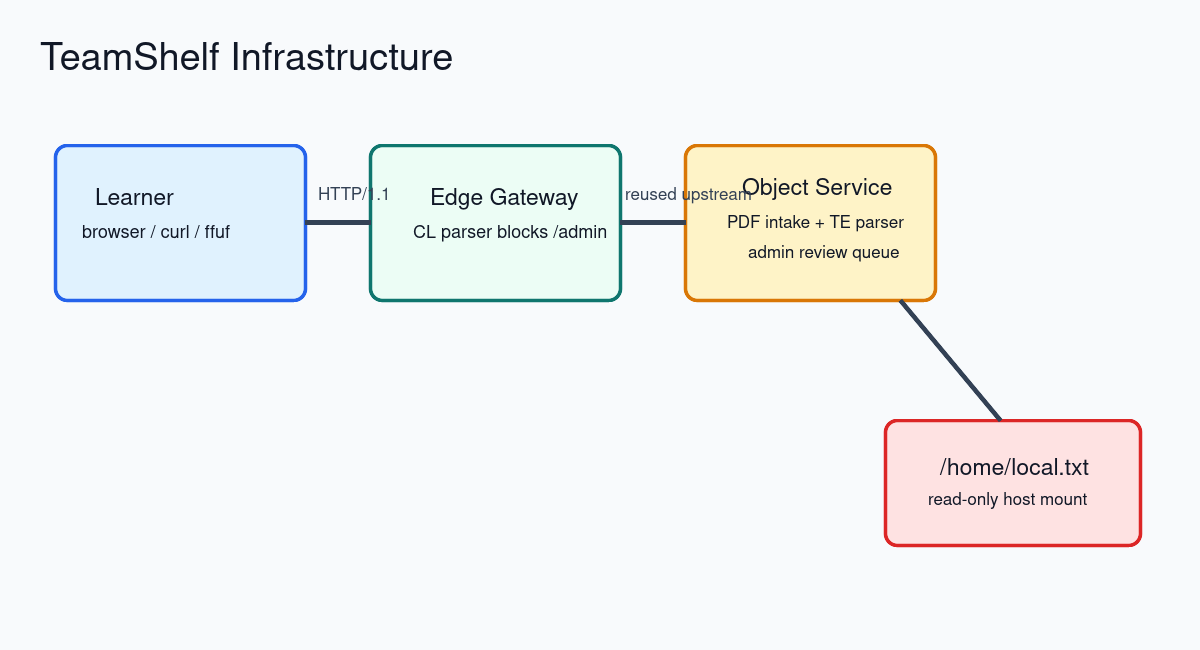
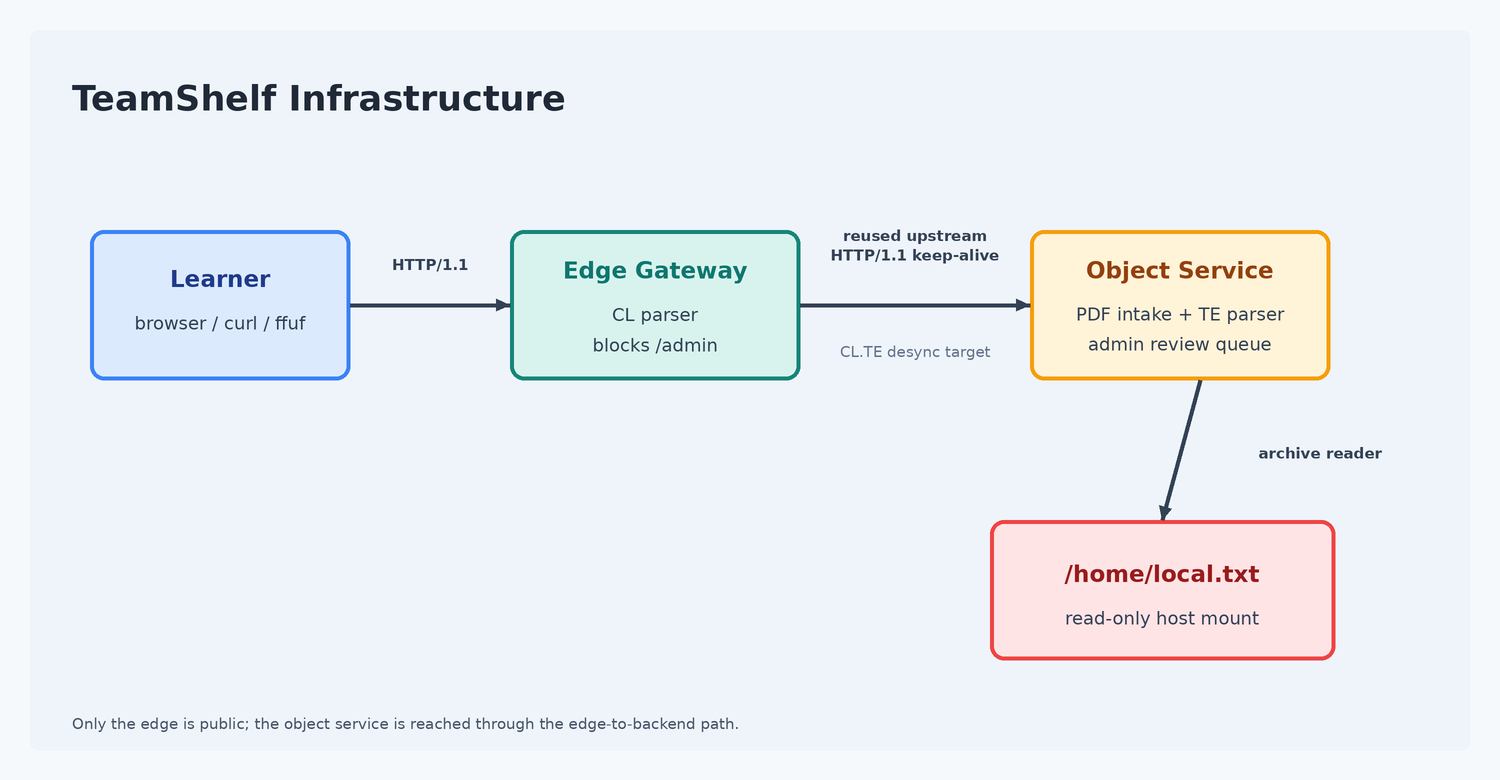
Clean setup and fix infrastructure diagram

diff --git a/setup/setup.md b/setup/setup.md
@@ -1,109 +1,115 @@
-# Important Notes
+# TeamShelf Deployment Setup
 
-## Environment Setup Requirements
-
-The challenge is self-contained for an offline Ubuntu 26 AWS instance. The web UI uses only local assets, the runtime is a static Go binary, and the Docker image uses `FROM scratch`, so the image build does not need Docker Hub.
-
-Run the commands below one block at a time from the repository root.
+Run these commands from the repository root. The host must already have Docker Engine with the Compose plugin installed.
 
 ```bash
-cd /home/ubuntu/secdojo
-pwd
-ls -la
+ROOT="$(pwd)"
+test -f "$ROOT/setup/tools/docker-compose.yml"
+test -f "$ROOT/setup/tools/Dockerfile"
+test -x "$ROOT/setup/bin/teamshelf"
 ```
 
-Create the host flag file. Replace the value before publishing the lab.
+## 1. Verify the Host Flag
+
+The platform flag must exist on the host at `/home/local.txt` before the container starts. The Compose file mounts that exact file read-only into the container.
 
 ```bash
-printf '%s\n' 'SECdojo{REPLACE_WITH_REAL_FLAG}' | sudo tee /home/local.txt >/dev/null
+sudo test -s /home/local.txt
 sudo chmod 0644 /home/local.txt
-sudo test -f /home/local.txt
 sudo ls -l /home/local.txt
 ```
 
-Build or verify the static challenge binary.
+## 2. Verify Docker
 
 ```bash
+sudo systemctl enable --now docker
+docker --version
+docker compose version
+```
+
+## 3. Build or Verify the Binary
+
+The repository includes a prebuilt linux/amd64 static binary at `setup/bin/teamshelf`. If Go is installed, rebuild it from source. If Go is not installed, the included binary is used.
+
+```bash
+cd "$ROOT"
 if command -v go >/dev/null 2>&1; then
-  cd /home/ubuntu/secdojo/setup/tools
-  CGO_ENABLED=0 GOOS=linux GOARCH=amd64 go build -trimpath -ldflags "-s -w" -o ../bin/teamshelf .
-  cd /home/ubuntu/secdojo
+  (
+    cd setup/tools
+    CGO_ENABLED=0 GOOS=linux GOARCH=amd64 go build -trimpath -ldflags "-s -w" -o ../bin/teamshelf .
+  )
 else
   test -x setup/bin/teamshelf
 fi
 file setup/bin/teamshelf
 ```
 
-Validate the Compose file before starting the service.
+## 4. Validate Compose
 
 ```bash
+cd "$ROOT"
 docker compose -f setup/tools/docker-compose.yml config
 ```
 
-Build the local image.
+## 5. Build the Image
 
 ```bash
+cd "$ROOT"
 docker compose -f setup/tools/docker-compose.yml build
 ```
 
-Start the challenge.
+## 6. Start the Service
 
 ```bash
+cd "$ROOT"
 docker compose -f setup/tools/docker-compose.yml up -d
 docker compose -f setup/tools/docker-compose.yml ps
 ```
 
-Verify the public behavior.
+The default public port is `8080`. To use another port, set `PUBLIC_PORT` when starting Compose.
 
 ```bash
-curl -i http://127.0.0.1:8080/ | head
-curl -i 'http://127.0.0.1:8080/admin?queue=upload-review' | head
-printf '%s\n' 'not a pdf' > /tmp/fake.pdf
-curl -s -F 'document=@/tmp/fake.pdf;filename=quarterly-report.pdf;type=application/pdf' http://127.0.0.1:8080/upload
-```
-
-Expected behavior:
-
-- `/` returns the TeamShelf workspace UI.
-- `/admin?queue=upload-review` returns `404 Not Found` from the edge gateway.
-- invalid PDF uploads return a JSON notice pointing to `/admin?queue=upload-review`.
-- `docker compose -f setup/tools/docker-compose.yml ps` shows `secdojo-teamshelf` running.
-
-If the lab should listen on port 80 instead of 8080, set `PUBLIC_PORT` before starting Compose.
-
-```bash
+cd "$ROOT"
 docker compose -f setup/tools/docker-compose.yml down
 PUBLIC_PORT=80 docker compose -f setup/tools/docker-compose.yml up -d
 docker compose -f setup/tools/docker-compose.yml ps
 ```
 
-Enable Docker after reboot and keep the challenge container persistent.
+## 7. Verify Runtime Behavior
 
 ```bash
-sudo systemctl enable --now docker
+curl -i http://127.0.0.1:8080/ | head
+curl -i 'http://127.0.0.1:8080/admin?queue=upload-review' | head
+curl -s http://127.0.0.1:8080/api/health
+printf '%s\n' 'not a pdf' > /tmp/fake.pdf
+curl -s -F 'document=@/tmp/fake.pdf;filename=quarterly-report.pdf;type=application/pdf' http://127.0.0.1:8080/upload
+```
+
+Expected results:
+
+- `/` returns the TeamShelf workspace UI.
+- `/admin?queue=upload-review` returns `404 Not Found` from the edge gateway.
+- `/api/health` returns JSON with `obj-eu-archive-03` and `http/1.1 keep-alive`.
+- The invalid upload response includes `/admin?queue=upload-review`.
+
+## 8. Verify Reboot Persistence
+
+```bash
 docker update --restart unless-stopped secdojo-teamshelf
 ```
 
-After a reboot, verify the service.
+Reboot the host when you are ready to test persistence. After the host comes back:
 
 ```bash
 docker ps --filter name=secdojo-teamshelf
 curl -s http://127.0.0.1:8080/api/health
+sudo test -s /home/local.txt
 ```
 
-The flag is mounted from the host path `/home/local.txt` into the container at the same path. This is required so the platform flag persists across container rebuilds and instance reboots. The Compose file uses `create_host_path: false` so startup fails clearly if `/home/local.txt` is missing instead of creating the wrong type of mount.
+## Notes
 
-## Lab Environment Constraints
-
-- No outbound internet is required during runtime.
-- No npm, pip, apt, CDN, or remote font dependency is used by the challenge.
-- Docker image build does not pull a base image because the Dockerfile uses `FROM scratch`.
-- The included binary is linux/amd64. On arm64, install Go before deployment and build with `GOARCH=arm64`.
-- Do not hardcode an instance IP in service config. Access the lab with `http://<instance-ip>:8080/` or the configured `PUBLIC_PORT`.
-
-## File Organization
-
-- Challenge runtime source: `setup/tools/main.go`, `setup/tools/web/`
-- Docker deployment: `setup/tools/Dockerfile`, `setup/tools/docker-compose.yml`, `setup/bin/teamshelf`
-- Minimal container root files: `setup/rootfs/etc/passwd`, `setup/rootfs/etc/group`
-- Documentation images: `writeup/images/`
+- Runtime does not require outbound internet.
+- The web UI uses only local assets.
+- The Dockerfile uses `FROM scratch`, so the image build does not pull a base image.
+- `/home/local.txt` is mounted read-only with `create_host_path: false`; startup fails if the flag file is missing.
+- On arm64 hosts, rebuild the binary with `GOARCH=arm64` before building the Docker image.
